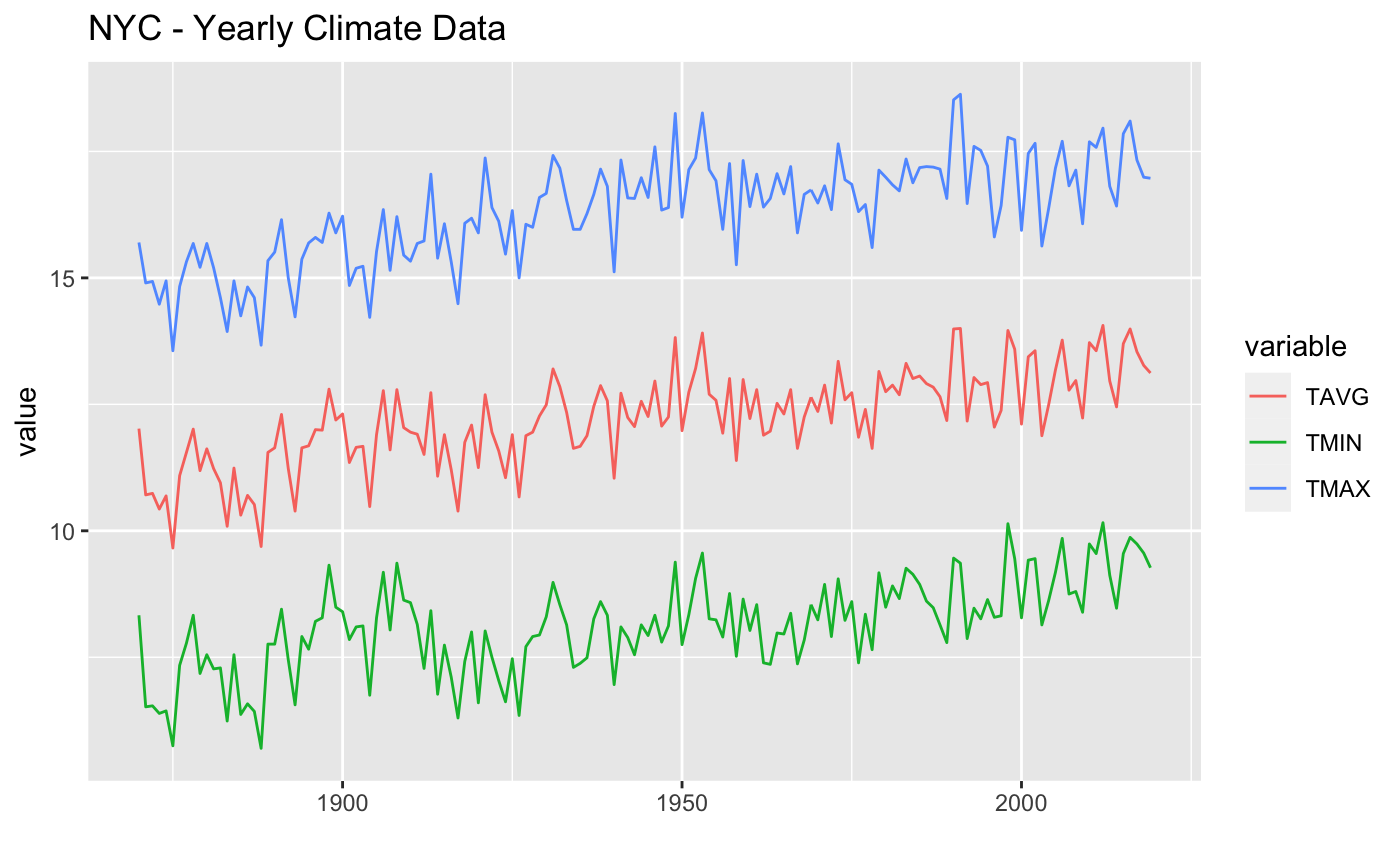
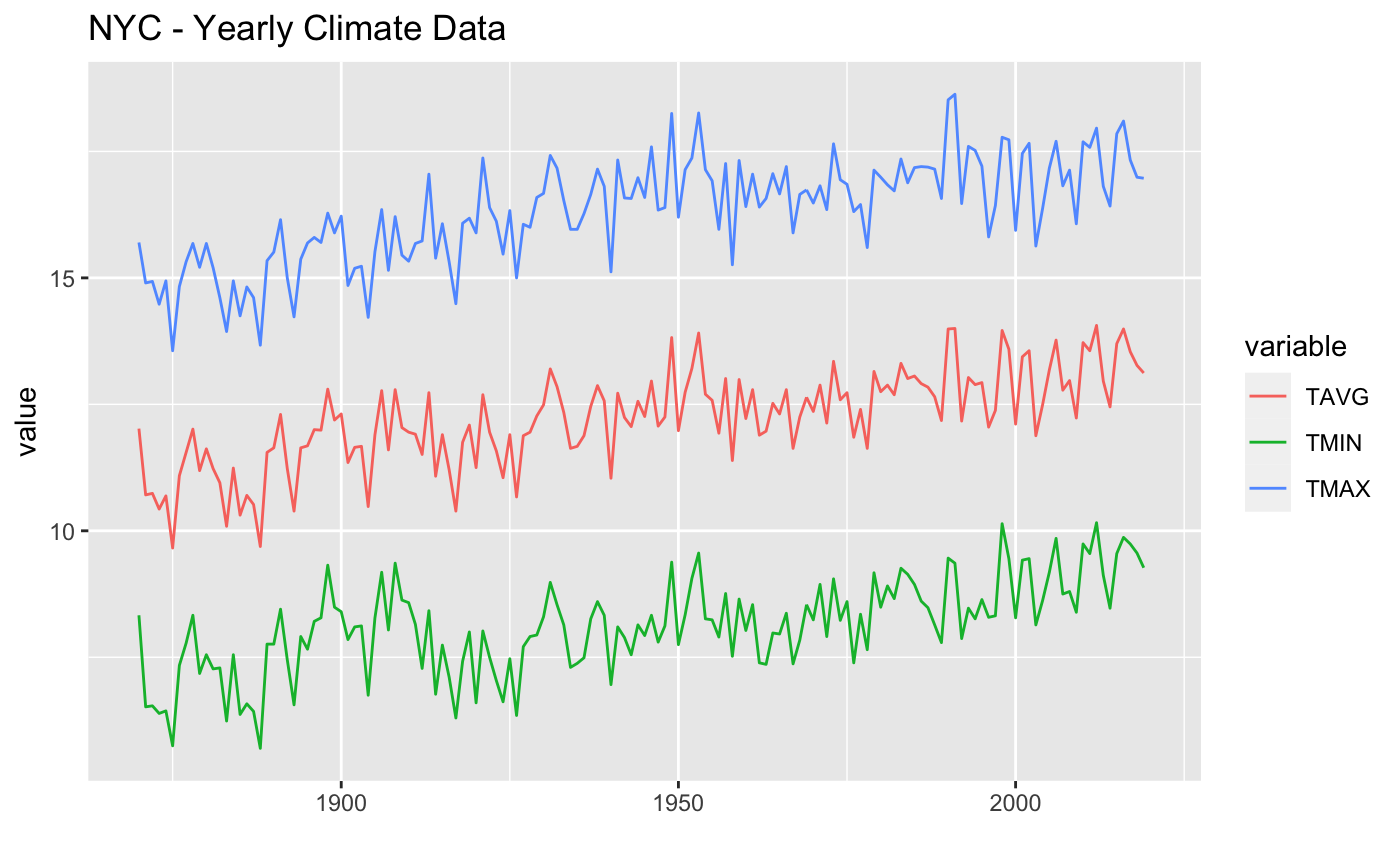
Deploy from Github Actions build 132920055 [ci skip]
Build URL: https://github.com/mlr-org/mlr3forecasting/actions/runs/132920055
Commit: 2785978033415187420995634c0ee40af2306a09

diff --git a/articles/vignettes.html b/articles/vignettes.html
@@ -131,8 +131,9 @@
 <span class="no">nyc</span> <span class="kw">=</span> <span class="no">nyc</span>[, <span class="fu"><a href="https://rdrr.io/r/base/c.html">c</a></span>(<span class="st">"DATE"</span>, <span class="st">"PRCP"</span>, <span class="st">"TAVG"</span>, <span class="st">"TMIN"</span>, <span class="st">"TMAX"</span>)]
 
 <span class="no">nyc</span>[<span class="fu"><a href="https://rdrr.io/r/base/NA.html">is.na</a></span>(<span class="no">nyc</span>$<span class="no">TAVG</span>),]</pre></body></html></div>
-<pre><code>##   DATE   PRCP TAVG TMIN TMAX
-## 1 1869 1149.9   NA   NA   NA</code></pre>
+<pre><code>##     DATE   PRCP TAVG TMIN TMAX
+## 1   1869 1149.9   NA   NA   NA
+## 152 2020     NA   NA   NA   NA</code></pre>
 <div class="sourceCode" id="cb5"><html><body><pre class="r"><span class="co"># remove first year</span>
 <span class="no">nyc</span> <span class="kw">=</span> <span class="no">nyc</span>[-<span class="fl">1</span>,]
 
@@ -180,7 +181,7 @@
                             <span class="kw">backend</span> <span class="kw">=</span> <span class="no">nyc_ts</span>,
                             <span class="kw">target</span> <span class="kw">=</span> <span class="fu"><a href="https://rdrr.io/r/base/c.html">c</a></span>(<span class="st">"TAVG"</span>, <span class="st">"TMIN"</span>, <span class="st">"TMAX"</span>))
 <span class="no">task</span>$<span class="fu"><a href="https://rdrr.io/r/base/print.html">print</a></span>()</pre></body></html></div>
-<pre><code>## &lt;TaskRegrForecast:nyc&gt; (150 x 4)
+<pre><code>## &lt;TaskRegrForecast:nyc&gt; (151 x 4)
 ## * Target: TAVG, TMIN, TMAX
 ## * Properties: multivariate
 ## * Features (1):
@@ -253,45 +254,46 @@
 <pre><code>## [[1]]
 ## &lt;PredictionForecast&gt; for 5 observations:
 ##  row_id truth.TAVG truth.TMIN truth.TMAX response.TAVG response.TMIN
-##      29      12.80       9.32      16.28      11.48436      7.644643
-##      30      12.19       8.49      15.89      11.20882      7.301154
-##      31      12.31       8.40      16.22      11.09625      7.177501
-##      32      11.35       7.85      14.85      11.08398      7.188368
-##      33      11.65       8.10      15.19      11.11446      7.241179
+##      19       9.69       5.70      13.67      10.91275      6.951221
+##      20      11.55       7.76      15.34      11.16454      7.236575
+##      21      11.64       7.76      15.51      10.94866      6.985425
+##      22      12.30       8.45      16.15      10.76952      6.796117
+##      23      11.23       7.45      15.00      10.66134      6.690065
 ##  response.TMAX
-##       15.32397
-##       15.11485
-##       15.01380
-##       14.97889
-##       14.98734
+##       14.87339
+##       15.09354
+##       14.91140
+##       14.74163
+##       14.63075
 ## 
 ## [[2]]
 ## &lt;PredictionForecast&gt; for 5 observations:
 ##  row_id truth.TAVG truth.TMIN truth.TMAX response.TAVG response.TMIN
-##      31      12.31       8.40      16.22      11.70070      7.889993
-##      32      11.35       7.85      14.85      11.51987      7.705001
-##      33      11.65       8.10      15.19      11.51270      7.721152
-##      34      11.67       8.12      15.23      11.62224      7.877671
-##      35      10.48       6.75      14.22      11.46029      7.630023
+##      47      11.21       7.11      15.32      11.16029      7.022568
+##      48      10.39       6.30      14.49      11.09032      7.041356
+##      49      11.75       7.42      16.08      11.07837      7.085365
+##      50      12.09       8.00      16.18      11.29934      7.359885
+##      51      11.25       6.60      15.89      11.38633      7.469770
 ##  response.TMAX
-##       15.51076
-##       15.33446
-##       15.30415
-##       15.36730
-##       15.28941</code></pre>
+##       15.29564
+##       15.13860
+##       15.06999
+##       15.23972
+##       15.30359</code></pre>
 </div>
 <div id="plotting" class="section level2">
 <h2 class="hasAnchor">
 <a href="#plotting" class="anchor"></a>Plotting</h2>
 <div class="sourceCode" id="cb18"><html><body><pre class="r"><span class="fu"><a href="../reference/autoplot.html">autoplot</a></span>(<span class="no">task</span>) + <span class="fu"><a href="https://ggplot2.tidyverse.org/reference/labs.html">ggtitle</a></span>(<span class="st">"NYC - Yearly Climate Data"</span>)</pre></body></html></div>
+<pre><code>## Warning: Removed 3 row(s) containing missing values (geom_path).</code></pre>
 <p><img src="vignettes_files/figure-html/plot-1.png" width="700"></p>
-<div class="sourceCode" id="cb19"><html><body><pre class="r"><span class="no">task</span> <span class="kw">=</span> <span class="no">TaskRegrForecast</span>$<span class="fu">new</span>(<span class="kw">id</span> <span class="kw">=</span> <span class="st">"muc"</span>,
+<div class="sourceCode" id="cb20"><html><body><pre class="r"><span class="no">task</span> <span class="kw">=</span> <span class="no">TaskRegrForecast</span>$<span class="fu">new</span>(<span class="kw">id</span> <span class="kw">=</span> <span class="st">"muc"</span>,
                             <span class="kw">backend</span> <span class="kw">=</span> <span class="fu"><a href="https://rdrr.io/r/stats/ts.html">ts</a></span>(<span class="no">muc</span>[<span class="fu"><a href="https://rdrr.io/r/base/c.html">c</a></span>(<span class="st">"TAVG"</span>, <span class="st">"PRCP"</span>)], <span class="kw">start</span> <span class="kw">=</span> <span class="no">muc_start</span>, <span class="kw">end</span> <span class="kw">=</span> <span class="no">muc_end</span>, <span class="kw">frequency</span> <span class="kw">=</span> <span class="fl">1</span>),
                             <span class="kw">target</span> <span class="kw">=</span> <span class="st">"TAVG"</span>)
 
 <span class="fu"><a href="../reference/autoplot.html">autoplot</a></span>(<span class="no">task</span>) + <span class="fu"><a href="https://ggplot2.tidyverse.org/reference/labs.html">ggtitle</a></span>(<span class="st">"MUC - Yearly Climate Data"</span>)</pre></body></html></div>
 <p><img src="vignettes_files/figure-html/plot-2.png" width="700"></p>
-<div class="sourceCode" id="cb20"><html><body><pre class="r"><span class="no">learner</span> <span class="kw">=</span> <span class="no">LearnerRegrForecastAutoArima</span>$<span class="fu">new</span>()
+<div class="sourceCode" id="cb21"><html><body><pre class="r"><span class="no">learner</span> <span class="kw">=</span> <span class="no">LearnerRegrForecastAutoArima</span>$<span class="fu">new</span>()
 <span class="no">learner</span>$<span class="fu">train</span>(<span class="no">task</span>, <span class="kw">row_ids</span> <span class="kw">=</span> <span class="fl">1</span>:<span class="fl">85</span>)
 <span class="no">learner</span>$<span class="no">model</span></pre></body></html></div>
 <pre><code>## Series: task$data(rows = task$row_ids, cols = task$target_names) 
@@ -304,12 +306,12 @@
 ## 
 ## sigma^2 estimated as 0.4615:  log likelihood=-80.94
 ## AIC=171.88   AICc=172.64   BIC=184.1</code></pre>
-<div class="sourceCode" id="cb22"><html><body><pre class="r"><span class="no">p</span> <span class="kw">=</span> <span class="no">learner</span>$<span class="fu"><a href="https://rdrr.io/r/stats/predict.html">predict</a></span>(<span class="no">task</span>, <span class="kw">row_ids</span> <span class="kw">=</span> <span class="fl">86</span>:<span class="fl">136</span>)
+<div class="sourceCode" id="cb23"><html><body><pre class="r"><span class="no">p</span> <span class="kw">=</span> <span class="no">learner</span>$<span class="fu"><a href="https://rdrr.io/r/stats/predict.html">predict</a></span>(<span class="no">task</span>, <span class="kw">row_ids</span> <span class="kw">=</span> <span class="fl">86</span>:<span class="fl">136</span>)
 <span class="no">p</span>$<span class="no">se</span></pre></body></html></div>
 <pre><code>##  [1] NA NA NA NA NA NA NA NA NA NA NA NA NA NA NA NA NA NA NA NA NA NA NA NA NA
 ## [26] NA NA NA NA NA NA NA NA NA NA NA NA NA NA NA NA NA NA NA NA NA NA NA NA NA
 ## [51] NA</code></pre>
-<div class="sourceCode" id="cb24"><html><body><pre class="r"><span class="fu"><a href="https://rdrr.io/pkg/forecast/man/checkresiduals.html">checkresiduals</a></span>(<span class="no">learner</span>$<span class="no">model</span>)</pre></body></html></div>
+<div class="sourceCode" id="cb25"><html><body><pre class="r"><span class="fu"><a href="https://rdrr.io/pkg/forecast/man/checkresiduals.html">checkresiduals</a></span>(<span class="no">learner</span>$<span class="no">model</span>)</pre></body></html></div>
 <p><img src="vignettes_files/figure-html/plot-3.png" width="700"></p>
 <pre><code>## 
 ##  Ljung-Box test
@@ -318,7 +320,7 @@
 ## Q* = 4.9348, df = 6, p-value = 0.5522
 ## 
 ## Model df: 4.   Total lags used: 10</code></pre>
-<div class="sourceCode" id="cb26"><html><body><pre class="r"><span class="fu"><a href="../reference/autoplot.html">autoplot</a></span>(<span class="fu"><a href="https://rdrr.io/pkg/forecast/man/forecast.html">forecast</a></span>(<span class="no">learner</span>$<span class="no">model</span>, <span class="kw">xreg</span> <span class="kw">=</span> <span class="fu"><a href="https://rdrr.io/r/base/matrix.html">as.matrix</a></span>(<span class="no">task</span>$<span class="fu"><a href="https://rdrr.io/r/utils/data.html">data</a></span>(<span class="kw">cols</span> <span class="kw">=</span> <span class="st">"PRCP"</span>, <span class="kw">rows</span> <span class="kw">=</span> <span class="fl">131</span>:<span class="fl">136</span> )))) + <span class="fu"><a href="https://ggplot2.tidyverse.org/reference/labs.html">ylab</a></span>(<span class="st">"value"</span>)</pre></body></html></div>
+<div class="sourceCode" id="cb27"><html><body><pre class="r"><span class="fu"><a href="../reference/autoplot.html">autoplot</a></span>(<span class="fu"><a href="https://rdrr.io/pkg/forecast/man/forecast.html">forecast</a></span>(<span class="no">learner</span>$<span class="no">model</span>, <span class="kw">xreg</span> <span class="kw">=</span> <span class="fu"><a href="https://rdrr.io/r/base/matrix.html">as.matrix</a></span>(<span class="no">task</span>$<span class="fu"><a href="https://rdrr.io/r/utils/data.html">data</a></span>(<span class="kw">cols</span> <span class="kw">=</span> <span class="st">"PRCP"</span>, <span class="kw">rows</span> <span class="kw">=</span> <span class="fl">131</span>:<span class="fl">136</span> )))) + <span class="fu"><a href="https://ggplot2.tidyverse.org/reference/labs.html">ylab</a></span>(<span class="st">"value"</span>)</pre></body></html></div>
 <p><img src="vignettes_files/figure-html/plot-4.png" width="700"></p>
 </div>
   </div>
